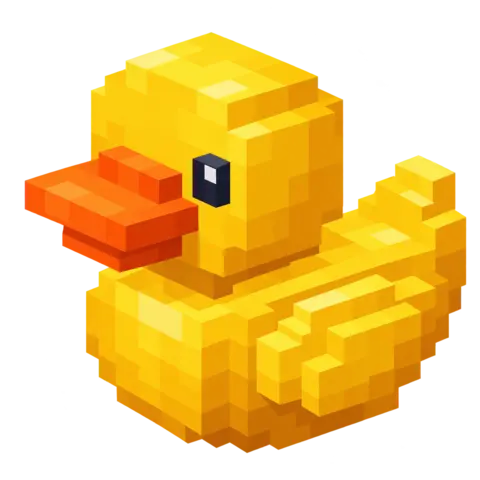
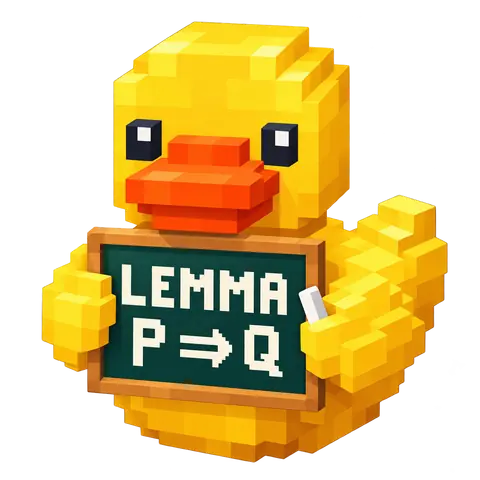
docs(brand): add proof slate and research tagline

diff --git a/README.md b/README.md
@@ -1,10 +1,12 @@
 <p align="center">
-  <img src="assets/brand/lemmaduck.webp" width="176" height="176" alt="LemmaDuck, a yellow voxel rubber duck with an orange bill">
+  <img src="assets/brand/lemmaduck.webp" width="176" height="176" alt="A yellow voxel duck holding chalk and a slate that reads ‘LEMMA’ and ‘P ⇒ Q’">
 </p>
 
 <h1 align="center">LemmaDuck</h1>
 
-LemmaDuck gives a research or development project a persistent task and a choice of agent workers. Open a terminal in Herdr, choose a model, and give it a question. You can hand the work to another model with the inputs, decisions and checks still attached. VS Code can stay open alongside Herdr for editing and reviewing diffs.
+<p align="center"><strong>Talk to the duck. Test your hunch.</strong></p>
+
+LemmaDuck is your lab copilot. Bring it a gap in a proof, a puzzling result, or a failing test. Open a terminal in Herdr, choose a model, and work through the question together. You can hand the task to another model with the inputs, decisions and checks still attached. VS Code can stay open alongside Herdr for editing and reviewing diffs.
 
 The source distribution includes the Pi worker, ChatGPT and Claude subscription routes, Google Antigravity ACP, complete pinned pstack and gstack workflow sources, and an MCP client for accounts you configure. Version **0.4.0** installs from this repository. See [validation](VALIDATION.md) for the checks behind this version and the features that still need a live account or implementation.
 

diff --git a/assets/brand/README.md b/assets/brand/README.md
@@ -1,5 +1,7 @@
 # LemmaDuck mascot
 
-The README uses a 480 px transparent WebP rendition of an original image generated with OpenAI ImageGen. It is displayed at 176 px. The prompt for this image is preserved below.
+The duck holds the chalk beside `P ⇒ Q`, the step it wants you to explain. The README displays the transparent 480 × 480 WebP at 176 × 176. The source image was made by editing the original LemmaDuck mascot with OpenAI ImageGen.
 
-> An original single mascot for the LemmaDuck open-source-style developer tool, presented as an isolated project mark at the top of a GitHub README. Create a classic cheerful yellow RUBBER BATH DUCK, in Minecraft-style low-resolution 3D voxel pixel art: an oversized cubical head, small shiny square dark eye, a broad flat saturated orange bill, gently stepped chubby body, chunky folded wing, raised tail tucked behind. Three-quarter isometric view facing left so its profile reads immediately. Geometry built from a small deliberate voxel grid, warm honey side planes, restrained square highlights, soft directional light. Make the silhouette bold and legible at 160 pixels, centered, fully visible, 82 percent of a square canvas. Genuine transparent background, artwork works on dark and light themes. Only the rubber duck. No lettering, numbers, logo, scenery, pedestal, props, water, border, external shadows, fine speckles or watermark.
+## Image prompt
+
+> undefined
